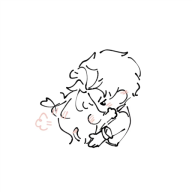
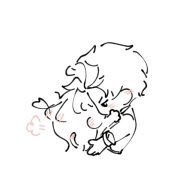
Add files via upload

Changed region(s): [[0.125, 0.2188, 0.7812, 0.8125], [0.7188, 0.2812, 0.75, 0.3125], [0.6875, 0.3125, 0.7188, 0.3438]]

diff --git a/sw.js b/sw.js
@@ -1,7 +1,7 @@
-self.addEventListener('install', function (e) {
+self.addEventListener('install', function (e) {
   e.waitUntil(
-    caches.open('chuanxun-v2').then(function (c) {
-      return c.addAll(['./index.html', './manifest.json', './icon-192.png?v=2', './icon-512.png?v=2']);
+    caches.open('chuanxun-v3').then(function (c) {
+      return c.addAll(['./index.html', './manifest.json', './icon-192.png?v=3', './icon-512.png?v=3']);
     })
   );
   self.skipWaiting();
@@ -10,7 +10,7 @@ self.addEventListener('install', function (e) {
 self.addEventListener('activate', function (e) {
   e.waitUntil(
     caches.keys().then(function (keys) {
-      return Promise.all(keys.filter(function (k) { return k !== 'chuanxun-v2'; }).map(function (k) { return caches.delete(k); }));
+      return Promise.all(keys.filter(function (k) { return k !== 'chuanxun-v3'; }).map(function (k) { return caches.delete(k); }));
     }).then(function () { return self.clients.claim(); })
   );
 });
@@ -21,7 +21,7 @@ self.addEventListener('fetch', function (e) {
     fetch(e.request).then(function (res) {
       if (res && res.ok) {
         var copy = res.clone();
-        caches.open('chuanxun-v2').then(function (c) { return c.put(e.request, copy); });
+        caches.open('chuanxun-v3').then(function (c) { return c.put(e.request, copy); });
       }
       return res;
     }).catch(function () {

diff --git a/index.html b/index.html
@@ -10,8 +10,8 @@
 <meta name="apple-mobile-web-app-status-bar-style" content="default">
 <meta name="apple-mobile-web-app-title" content="梦音传讯">
 <link rel="manifest" href="./manifest.json">
-<link rel="icon" type="image/png" sizes="192x192" href="./icon-192.png?v=2">
-<link rel="apple-touch-icon" href="./icon-192.png?v=2">
+<link rel="icon" type="image/png" sizes="192x192" href="./icon-192.png?v=3">
+<link rel="apple-touch-icon" href="./icon-192.png?v=3">
 <script>if('serviceWorker'in navigator){window.addEventListener('load',function(){navigator.serviceWorker.register('./sw.js').catch(function(){})})}</script>
 <link rel="preconnect" href="https://fonts.googleapis.com">
 <link href="https://fonts.googleapis.com/css2?family=Noto+Sans+SC:wght@300;400;500;700&family=Noto+Serif+SC:wght@400;700&display=swap" rel="stylesheet">
